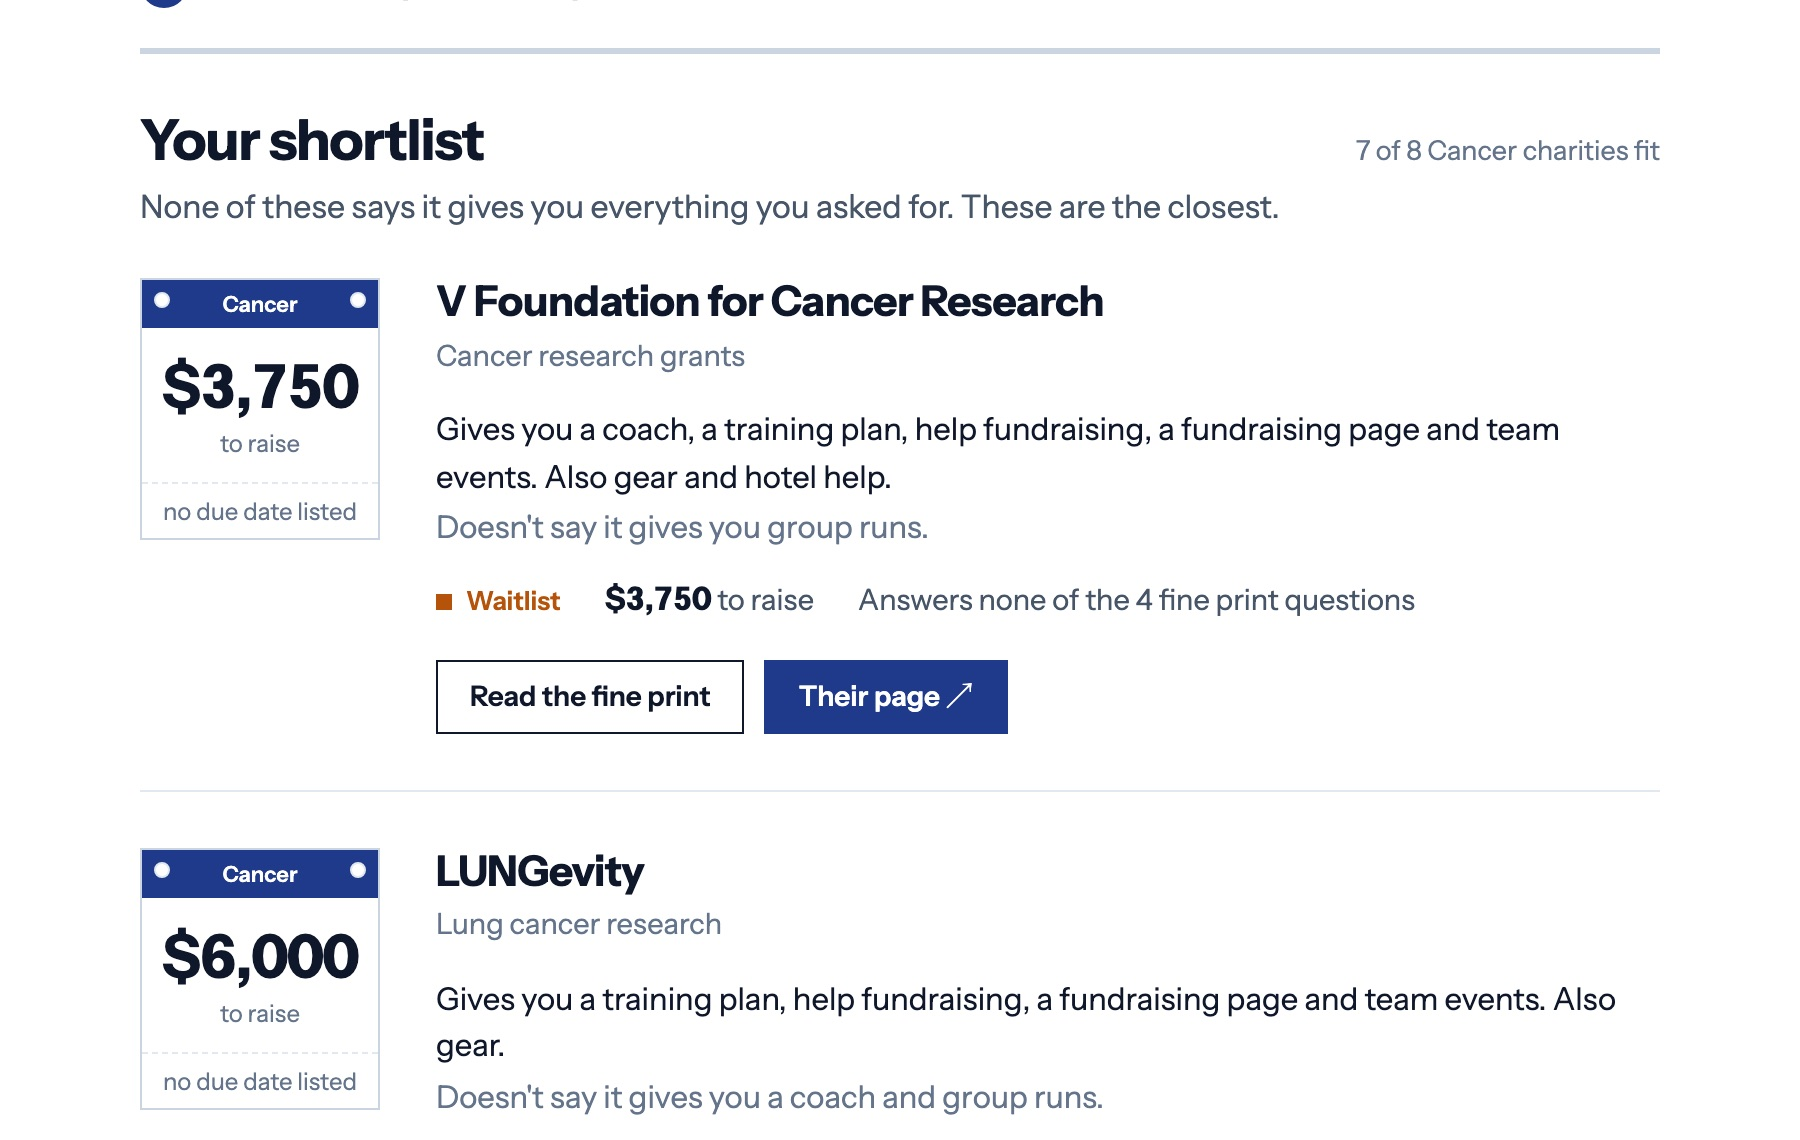
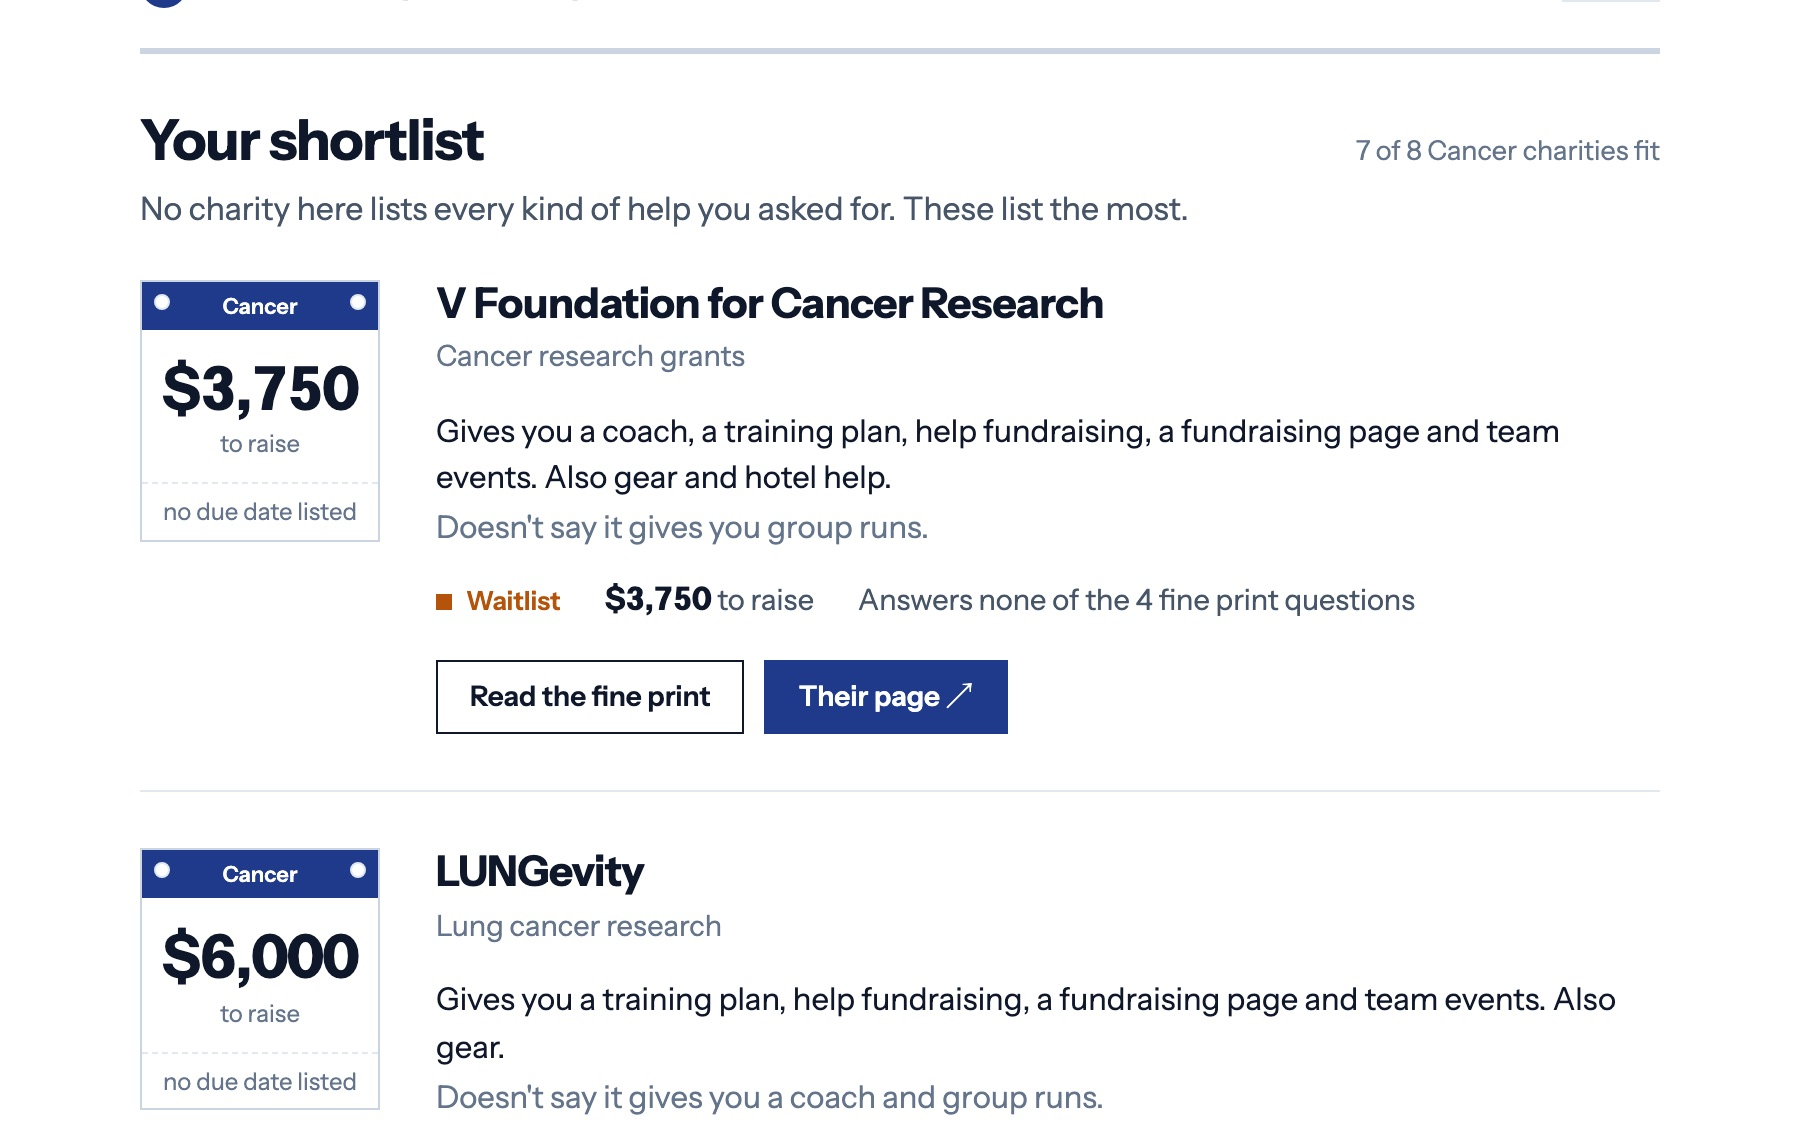
Plainer copy: drop everyone wording, help raising money, calmer shortlist line, shorter sub-line, trim About

diff --git a/site/index.html b/site/index.html
@@ -223,7 +223,7 @@ footer .sp{margin-left:auto}
 <div class="col">
 <div class="intro">
   <h1>Find a charity to run for</h1>
-  <p class="lede">Three questions. 27 official NYC Marathon 2026 charities. Every fact from the charity's own page.</p>
+  <p class="lede">27 official NYC Marathon charities. Every fact from the charity's own page.</p>
 </div>
 
 <form class="qs" id="form">
@@ -235,7 +235,7 @@ footer .sp{margin-left:auto}
   <legend data-n="2"><span class="t">What help do you want?<span class="s">Prices are almost all the same. The help is not.</span></span><button type="button" class="chg" data-q="q2">Change</button></legend>
   <div class="opts one">
     <label class="opt"><input type="radio" name="help" value="train"><span><b>People to train with.</b> A coach, group runs, a training plan.</span></label>
-    <label class="opt"><input type="radio" name="help" value="fund"><span><b>Help asking for money.</b> A fundraising helper, a page, team events.</span></label>
+    <label class="opt"><input type="radio" name="help" value="fund"><span><b>Help raising money.</b> A fundraising helper, a page, team events.</span></label>
     <label class="opt"><input type="radio" name="help" value="both"><span><b>Both.</b> I've never done a marathon or raised money.</span></label>
     <label class="opt"><input type="radio" name="help" value="none"><span><b>Just the spot.</b> I've got the rest.</span></label>
   </div>
@@ -245,7 +245,7 @@ footer .sp{margin-left:auto}
   <div class="opts one">
     <label class="opt"><input type="radio" name="when" value="open"><span><b>Now.</b> Only charities taking runners today.</span></label>
     <label class="opt"><input type="radio" name="when" value="wait"><span><b>I can wait.</b> Include waitlists.</span></label>
-    <label class="opt"><input type="radio" name="when" value="all"><span><b>Show me everyone,</b> even the ones closed for 2026.</span></label>
+    <label class="opt"><input type="radio" name="when" value="all"><span><b>Show all charities,</b> including the ones closed for 2026.</span></label>
   </div>
 </fieldset>
 </form>
@@ -261,7 +261,7 @@ footer .sp{margin-left:auto}
   <div id="alsorows"></div>
 </section>
 
-<details class="more" id="rest" hidden><summary>Everyone else <span class="quiet" id="restcount"></span></summary><div class="list-h"></div><div id="restrows"></div></details>
+<details class="more" id="rest" hidden><summary>Other charities <span class="quiet" id="restcount"></span></summary><div class="list-h"></div><div id="restrows"></div></details>
 
 <details class="more" id="browse"><summary>Or browse all charities <span class="quiet" id="browsecount"></span></summary><div class="list-h"></div><div id="browserows"></div></details>
 
@@ -363,8 +363,8 @@ footer .sp{margin-left:auto}
   causes.forEach(cz=>{const n=all.filter(c=>c.cause===cz);const op=n.filter(c=>c.status==='open').length;o1.appendChild(mkOpt(cz,cz,nCh(n.length)+', '+(op?op+' taking runners':'none taking runners today')));});
   const summary={
     q1:()=>ans.cause==='*'?'Anything':ans.cause,
-    q2:()=>({train:'People to train with',fund:'Help asking for money',both:'Both',none:'Just the spot'})[ans.help],
-    q3:()=>({open:'Now',wait:'I can wait',all:'Show me everyone'})[ans.when],
+    q2:()=>({train:'People to train with',fund:'Help raising money',both:'Both',none:'Just the spot'})[ans.help],
+    q3:()=>({open:'Now',wait:'I can wait',all:'Show all charities'})[ans.when],
   };
   function setDone(id,done){const f=$(id);f.classList.toggle('done',done);f.hidden=false;const s=f.querySelector('legend .s');if(done){s.dataset.o=s.dataset.o||s.textContent;s.textContent=summary[id]();}else if(s.dataset.o){s.textContent=s.dataset.o;}}
   const QS=['q1','q2','q3'], key={q1:'cause',q2:'help',q3:'when'};
@@ -438,7 +438,7 @@ footer .sp{margin-left:auto}
         const wl=inCause.filter(c=>c.status==='waitlist').length;
         say='None of the '+inCause.length+(ans.cause==='*'?'':' '+esc(ans.cause))+' charities are taking runners today.'+(wl&&ans.when==='open'?' '+wl+(wl===1?' has':' have')+' a waitlist. <a href="#" id="incw">Include waitlists</a>.':' <a href="#" id="incall">Show them anyway</a>.');
       }else if(w.length){
-        say=full?(full===1?'One':full)+' of these give'+(full===1?'s':'')+' you everything you asked for.':'None of these says it gives you everything you asked for. These are the closest.';
+        say=full?(full===1?'One':full)+' of these list'+(full===1?'s':'')+' every kind of help you asked for.':'No charity here lists every kind of help you asked for. These list the most.';
       }else say='Taking runners first, then the most help.';
       $('say').innerHTML=say;
       const inc=$('incw');if(inc)inc.addEventListener('click',e=>{e.preventDefault();$('q3').querySelector('input[value=wait]').click();});

diff --git a/site/template.html b/site/template.html
@@ -223,7 +223,7 @@ footer .sp{margin-left:auto}
 <div class="col">
 <div class="intro">
   <h1>Find a charity to run for</h1>
-  <p class="lede">Three questions. 27 official NYC Marathon 2026 charities. Every fact from the charity's own page.</p>
+  <p class="lede">27 official NYC Marathon charities. Every fact from the charity's own page.</p>
 </div>
 
 <form class="qs" id="form">
@@ -235,7 +235,7 @@ footer .sp{margin-left:auto}
   <legend data-n="2"><span class="t">What help do you want?<span class="s">Prices are almost all the same. The help is not.</span></span><button type="button" class="chg" data-q="q2">Change</button></legend>
   <div class="opts one">
     <label class="opt"><input type="radio" name="help" value="train"><span><b>People to train with.</b> A coach, group runs, a training plan.</span></label>
-    <label class="opt"><input type="radio" name="help" value="fund"><span><b>Help asking for money.</b> A fundraising helper, a page, team events.</span></label>
+    <label class="opt"><input type="radio" name="help" value="fund"><span><b>Help raising money.</b> A fundraising helper, a page, team events.</span></label>
     <label class="opt"><input type="radio" name="help" value="both"><span><b>Both.</b> I've never done a marathon or raised money.</span></label>
     <label class="opt"><input type="radio" name="help" value="none"><span><b>Just the spot.</b> I've got the rest.</span></label>
   </div>
@@ -245,7 +245,7 @@ footer .sp{margin-left:auto}
   <div class="opts one">
     <label class="opt"><input type="radio" name="when" value="open"><span><b>Now.</b> Only charities taking runners today.</span></label>
     <label class="opt"><input type="radio" name="when" value="wait"><span><b>I can wait.</b> Include waitlists.</span></label>
-    <label class="opt"><input type="radio" name="when" value="all"><span><b>Show me everyone,</b> even the ones closed for 2026.</span></label>
+    <label class="opt"><input type="radio" name="when" value="all"><span><b>Show all charities,</b> including the ones closed for 2026.</span></label>
   </div>
 </fieldset>
 </form>
@@ -261,7 +261,7 @@ footer .sp{margin-left:auto}
   <div id="alsorows"></div>
 </section>
 
-<details class="more" id="rest" hidden><summary>Everyone else <span class="quiet" id="restcount"></span></summary><div class="list-h"></div><div id="restrows"></div></details>
+<details class="more" id="rest" hidden><summary>Other charities <span class="quiet" id="restcount"></span></summary><div class="list-h"></div><div id="restrows"></div></details>
 
 <details class="more" id="browse"><summary>Or browse all charities <span class="quiet" id="browsecount"></span></summary><div class="list-h"></div><div id="browserows"></div></details>
 
@@ -363,8 +363,8 @@ footer .sp{margin-left:auto}
   causes.forEach(cz=>{const n=all.filter(c=>c.cause===cz);const op=n.filter(c=>c.status==='open').length;o1.appendChild(mkOpt(cz,cz,nCh(n.length)+', '+(op?op+' taking runners':'none taking runners today')));});
   const summary={
     q1:()=>ans.cause==='*'?'Anything':ans.cause,
-    q2:()=>({train:'People to train with',fund:'Help asking for money',both:'Both',none:'Just the spot'})[ans.help],
-    q3:()=>({open:'Now',wait:'I can wait',all:'Show me everyone'})[ans.when],
+    q2:()=>({train:'People to train with',fund:'Help raising money',both:'Both',none:'Just the spot'})[ans.help],
+    q3:()=>({open:'Now',wait:'I can wait',all:'Show all charities'})[ans.when],
   };
   function setDone(id,done){const f=$(id);f.classList.toggle('done',done);f.hidden=false;const s=f.querySelector('legend .s');if(done){s.dataset.o=s.dataset.o||s.textContent;s.textContent=summary[id]();}else if(s.dataset.o){s.textContent=s.dataset.o;}}
   const QS=['q1','q2','q3'], key={q1:'cause',q2:'help',q3:'when'};
@@ -438,7 +438,7 @@ footer .sp{margin-left:auto}
         const wl=inCause.filter(c=>c.status==='waitlist').length;
         say='None of the '+inCause.length+(ans.cause==='*'?'':' '+esc(ans.cause))+' charities are taking runners today.'+(wl&&ans.when==='open'?' '+wl+(wl===1?' has':' have')+' a waitlist. <a href="#" id="incw">Include waitlists</a>.':' <a href="#" id="incall">Show them anyway</a>.');
       }else if(w.length){
-        say=full?(full===1?'One':full)+' of these give'+(full===1?'s':'')+' you everything you asked for.':'None of these says it gives you everything you asked for. These are the closest.';
+        say=full?(full===1?'One':full)+' of these list'+(full===1?'s':'')+' every kind of help you asked for.':'No charity here lists every kind of help you asked for. These list the most.';
       }else say='Taking runners first, then the most help.';
       $('say').innerHTML=say;
       const inc=$('incw');if(inc)inc.addEventListener('click',e=>{e.preventDefault();$('q3').querySelector('input[value=wait]').click();});

diff --git a/site/about.html b/site/about.html
@@ -79,8 +79,6 @@ footer .sp{margin-left:auto}
 <dl>
   <dt>A mistake</dt><dd><a href="mailto:hello@charitybibs.com?subject=Correction">Tell us</a> and it's fixed within two days.</dd>
   <dt>A charity</dt><dd>Missing or changed? <a href="mailto:hello@charitybibs.com?subject=Add%20a%20charity">Email us</a> with a link to their page.</dd>
-  <dt>The data</dt><dd>Free to use under <a href="https://creativecommons.org/licenses/by/4.0/" target="_blank" rel="noopener">CC BY 4.0</a>. <a href="https://github.com/joycezhou66/charitybibs/blob/main/data/races/nyc-2026.json" target="_blank" rel="noopener">Download it</a> or read <a href="https://github.com/joycezhou66/charitybibs" target="_blank" rel="noopener">how it's collected</a>.</dd>
-  <dt>Who</dt><dd>Built by <a href="https://joycezhou.me">Joyce Zhou</a>, who wanted to run for a charity and couldn't find a way to compare them. The story is <a href="https://joycezhou.me/charitybibs">here</a>.</dd>
 </dl>
 </div>
 
